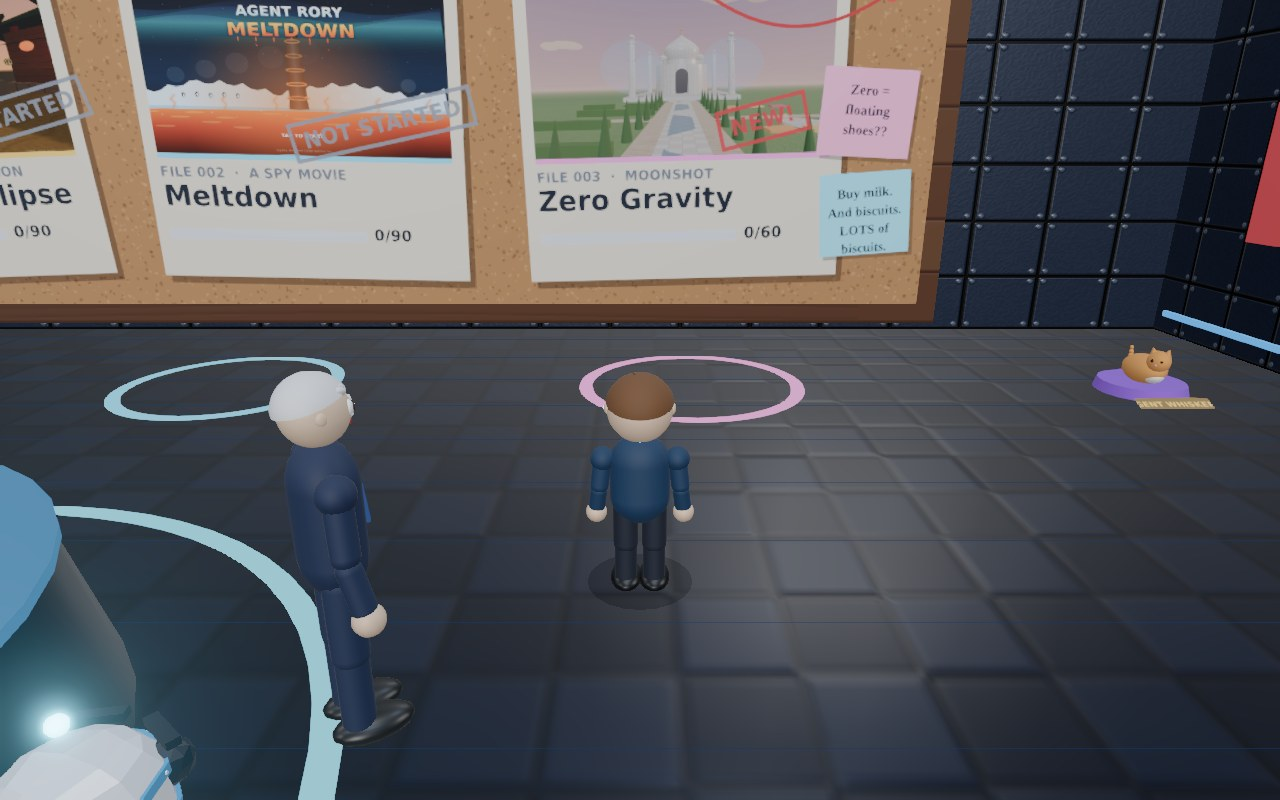
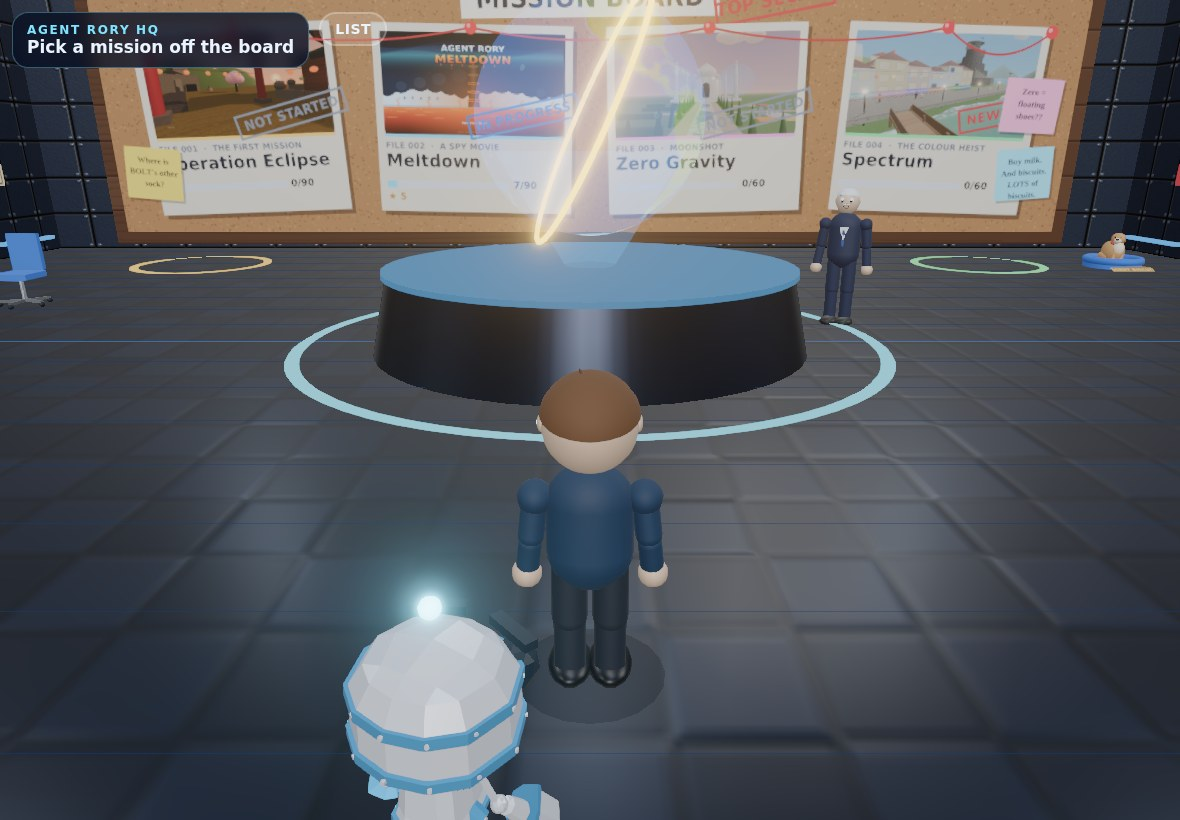
Spectrum: the flight to the Monochrome, a tram that can corner, and level fixes from the tests
- the Monochrome has a place on the globe, so the flight from Sossusvlei draws
  and lands (the flow test crashed there); a debug hook flies to the next place
- the tram gets a shorter wheelbase than its body and a lighter chassis, and
  the chase loop keeps clear of the stop platforms: the chase finishes in time
- Samarkand's roof stairs run up the front of each madrasa's right-hand wing
  (a stray argument had put them underground); the drops sit on the wing roofs
- the baobab drops are on the low branches and the red dust, and the trees
  can be climbed by a spiral of branch treads
- Hội An's bridge roof no longer blocks the walking map; the lit lanterns
  stand on the quay; the flat-roofed shophouses get pads
- Plitvice's upper boardwalk clears the terrace riser; the Sossusvlei gangway
  moves off the pan; the vault shelves step up like stairs; the airship struts
  keep off the rainbow run
- longer time limits for the animal and tram chases; portraits and the icon
  are drawn in colour whatever the place has lost; the HQ shelf picture shows
  four files

Claude-Session: https://claude.ai/code/session_019oSH3NtXzZFcL5qUkrW8eP

diff --git a/Game22/js/story.js b/Game22/js/story.js
@@ -253,7 +253,7 @@ export const PLACES = [
         intro: [["pip", "The gangway up to the Monochrome is fenced with grey beams. Touch one and it drains you back to the bottom."], ["pip", "Jump the low ones, wait for the moving ones. Then you're aboard."]],
         outro: [["rory", "I'm on the ship."], ["grisaille", "Welcome to the Monochrome, Agent Rory. Wipe your feet. Everything here is spotless. And grey."]] },
     ] },
-  { id: "monochrome", ch: 3, name: "The Monochrome", country: "Over the Namib", flag: "zz", contact: null, hue: 0xffffff,
+  { id: "monochrome", ch: 3, name: "The Monochrome", country: "Over the Namib", flag: "zz", contact: null, lat: -23.6, lon: 16.4, hue: 0xffffff,
     arrive: [["pip", "Rory, you're in her gallery. Every colour she's taken is hanging on these walls in a jar."], ["frost", "Open the jars, Agent Rory. Every one. And find the Baroness."], ["palette", "It's so grey in here I've gone grey myself. This is the worst I've ever felt. Let's fix it."]],
     leave: [],
     missions: [

diff --git a/docs/agent-rory-spectrum/js/story.js b/docs/agent-rory-spectrum/js/story.js
@@ -253,7 +253,7 @@ export const PLACES = [
         intro: [["pip", "The gangway up to the Monochrome is fenced with grey beams. Touch one and it drains you back to the bottom."], ["pip", "Jump the low ones, wait for the moving ones. Then you're aboard."]],
         outro: [["rory", "I'm on the ship."], ["grisaille", "Welcome to the Monochrome, Agent Rory. Wipe your feet. Everything here is spotless. And grey."]] },
     ] },
-  { id: "monochrome", ch: 3, name: "The Monochrome", country: "Over the Namib", flag: "zz", contact: null, hue: 0xffffff,
+  { id: "monochrome", ch: 3, name: "The Monochrome", country: "Over the Namib", flag: "zz", contact: null, lat: -23.6, lon: 16.4, hue: 0xffffff,
     arrive: [["pip", "Rory, you're in her gallery. Every colour she's taken is hanging on these walls in a jar."], ["frost", "Open the jars, Agent Rory. Every one. And find the Baroness."], ["palette", "It's so grey in here I've gone grey myself. This is the worst I've ever felt. Let's fix it."]],
     leave: [],
     missions: [

diff --git a/Game22/js/main.js b/Game22/js/main.js
@@ -611,6 +611,8 @@ G.debug = {
     return true;
   },
   load(id) { if (G.mission) { G.mission.cleanup(); G.mission = null; } loadPlace(id); return G.place.id; },
+  // fly on to the next place (the travel screen, the arrival)
+  next() { for (const m of G.place.missions) if (!G.save.done.includes(m.id)) G.save.done.push(m.id); G.dialogue.skipAll(); nextPlace(); },
   // a fixed camera for screenshots: from (x, y, z) looking at (lx, ly, lz)
   view(x, y, z, lx, ly, lz) { clearLayer("title"); G.hud.hide(); setTouch(false); G.viewCam = [x, y, z, lx, ly, lz]; G.state = "view"; },
   // anything that must be reachable but sits inside something solid (or, under the sea, above it)

diff --git a/docs/agent-rory-spectrum/js/main.js b/docs/agent-rory-spectrum/js/main.js
@@ -611,6 +611,8 @@ G.debug = {
     return true;
   },
   load(id) { if (G.mission) { G.mission.cleanup(); G.mission = null; } loadPlace(id); return G.place.id; },
+  // fly on to the next place (the travel screen, the arrival)
+  next() { for (const m of G.place.missions) if (!G.save.done.includes(m.id)) G.save.done.push(m.id); G.dialogue.skipAll(); nextPlace(); },
   // a fixed camera for screenshots: from (x, y, z) looking at (lx, ly, lz)
   view(x, y, z, lx, ly, lz) { clearLayer("title"); G.hud.hide(); setTouch(false); G.viewCam = [x, y, z, lx, ly, lz]; G.state = "view"; },
   // anything that must be reachable but sits inside something solid (or, under the sea, above it)

diff --git a/Game22/SCRIPT.md b/Game22/SCRIPT.md
@@ -478,8 +478,8 @@ Baroness Grisaille is hanging the world's colours in a gallery only she can see.
 
 **Mission 37: Baobab Tops** (Colour Drops, level 3)
 
-> **Fara:** The drops are up in the baobabs. There are pads at the bottom of each one.
-> **Pip:** Bounce up, land on the top, grab the drops. Eight!
+> **Fara:** The drops are in the baobabs: on the branches, and in the red dust between them.
+> **Pip:** Jump for the ones on the branches. Eight! And if you climb the branches to the top, the view is the best in Madagascar.
 
 *After:*
 
